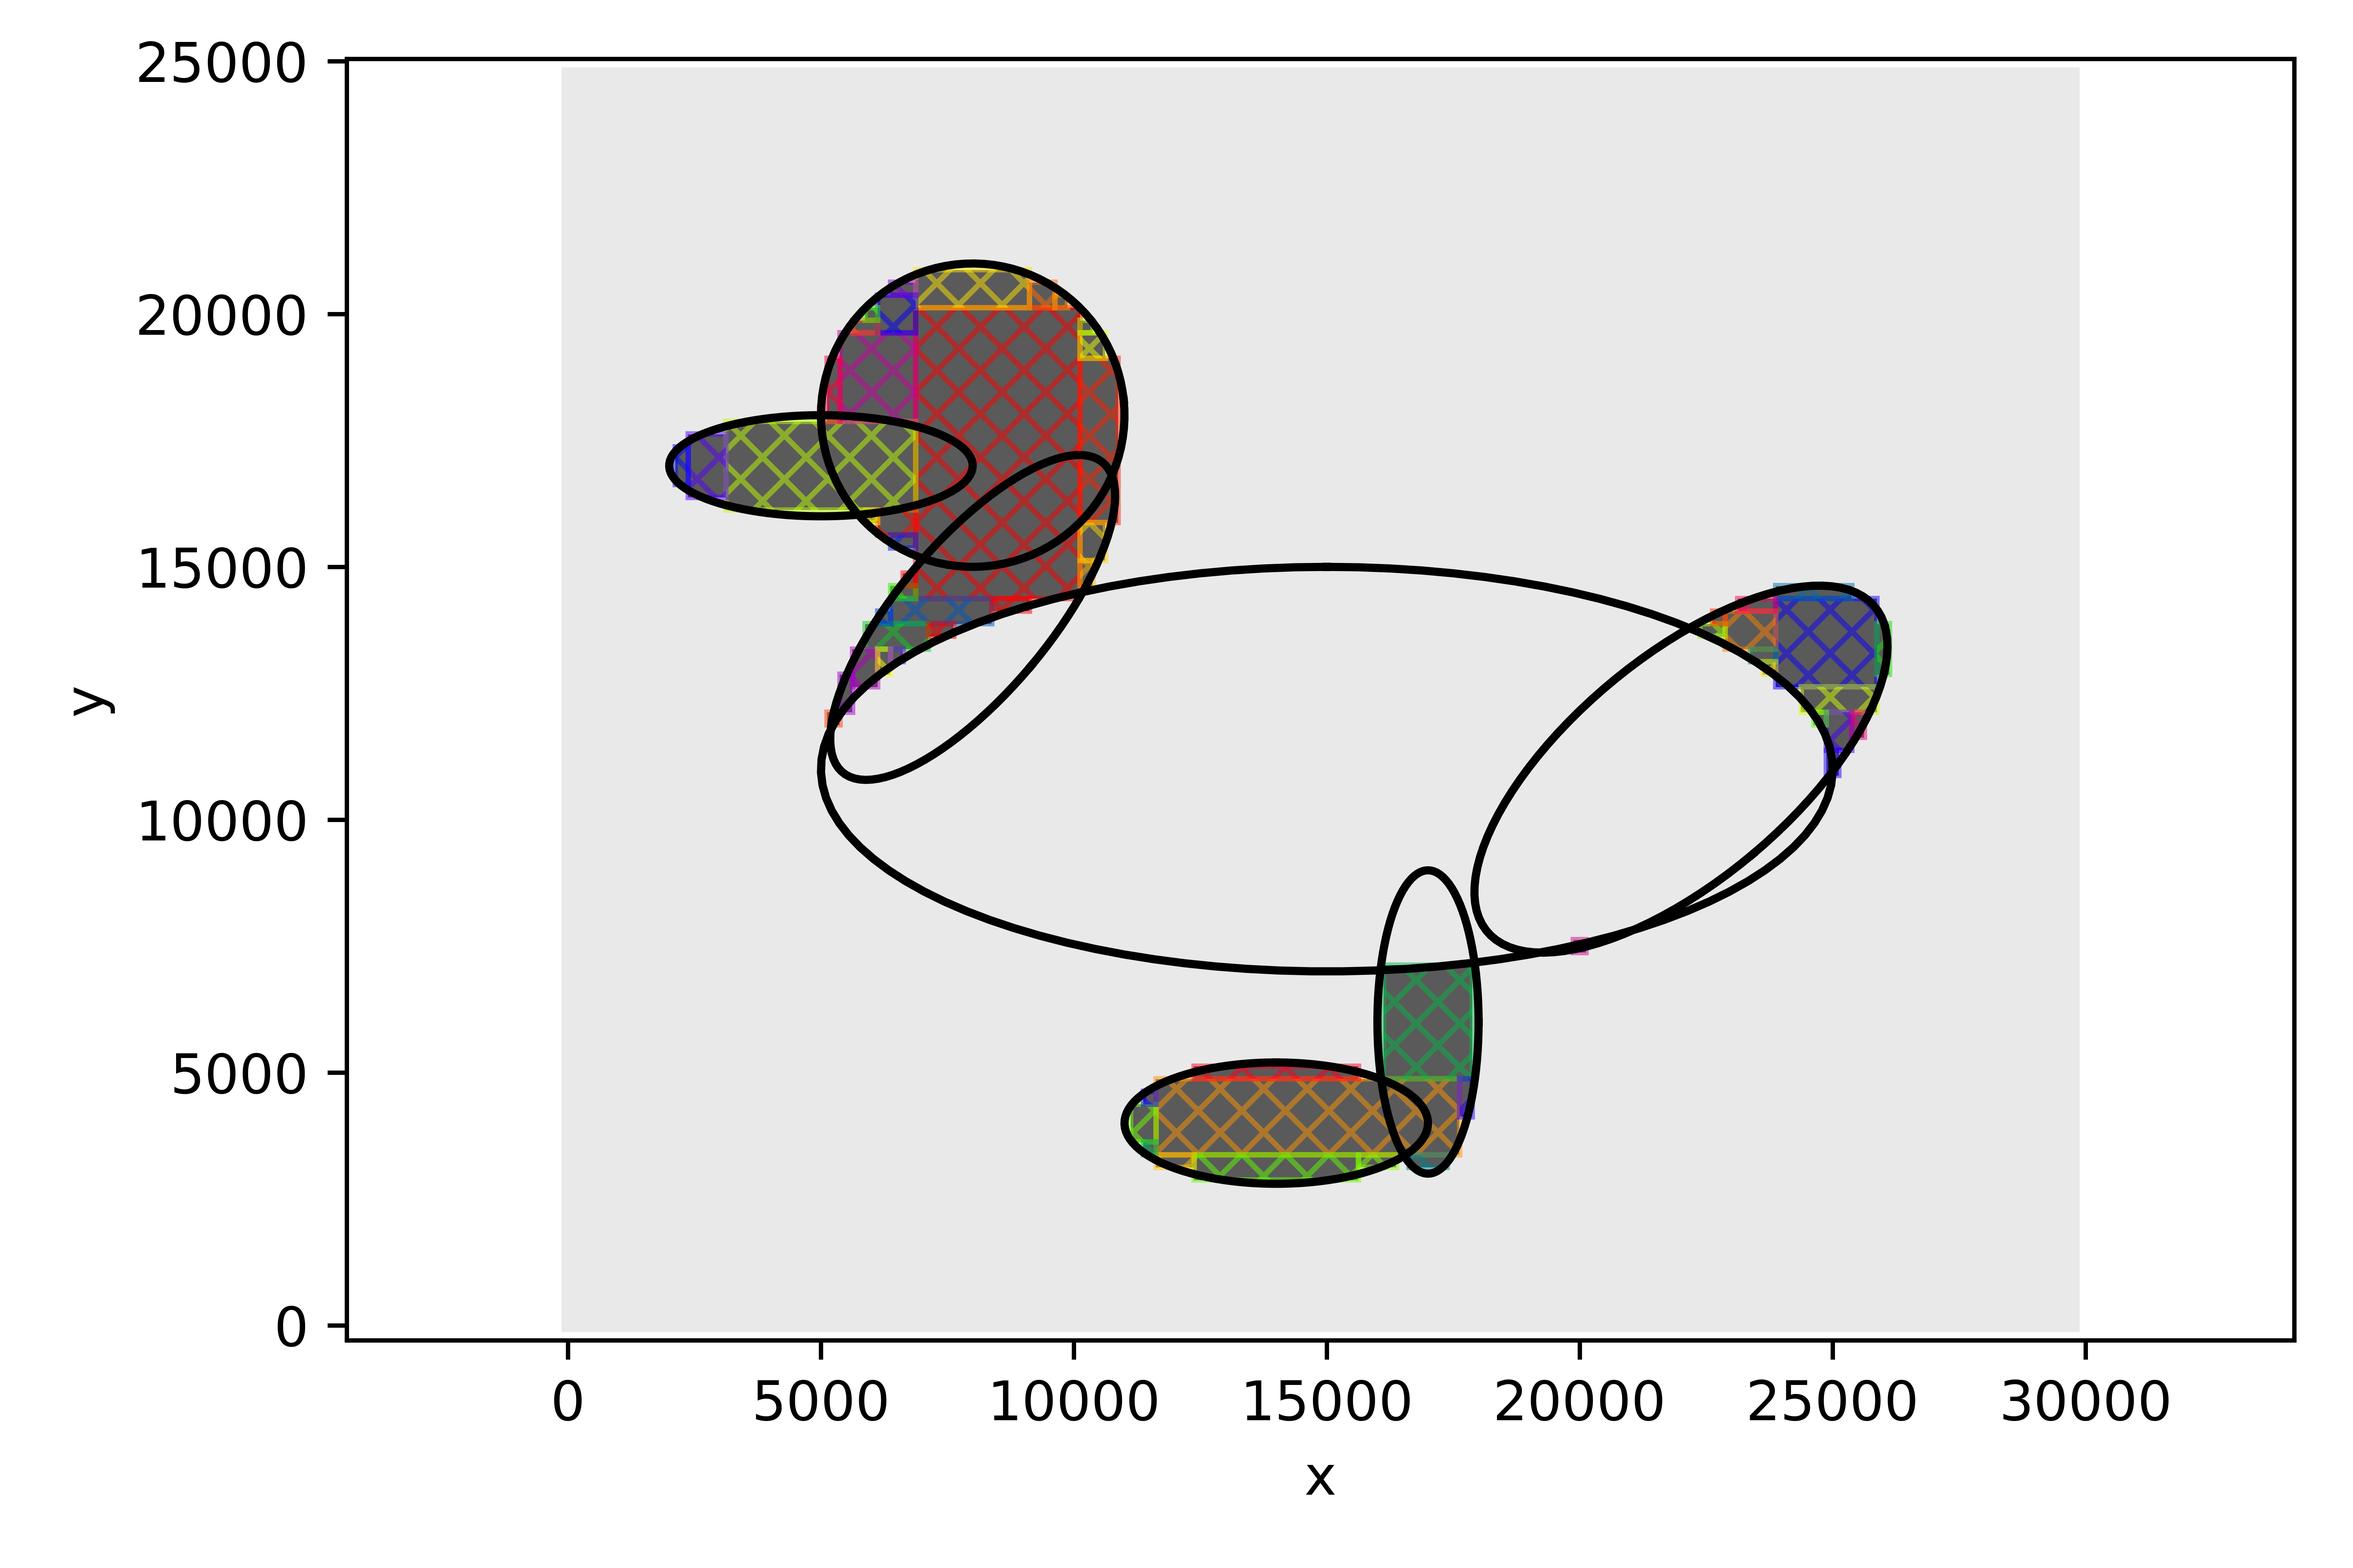
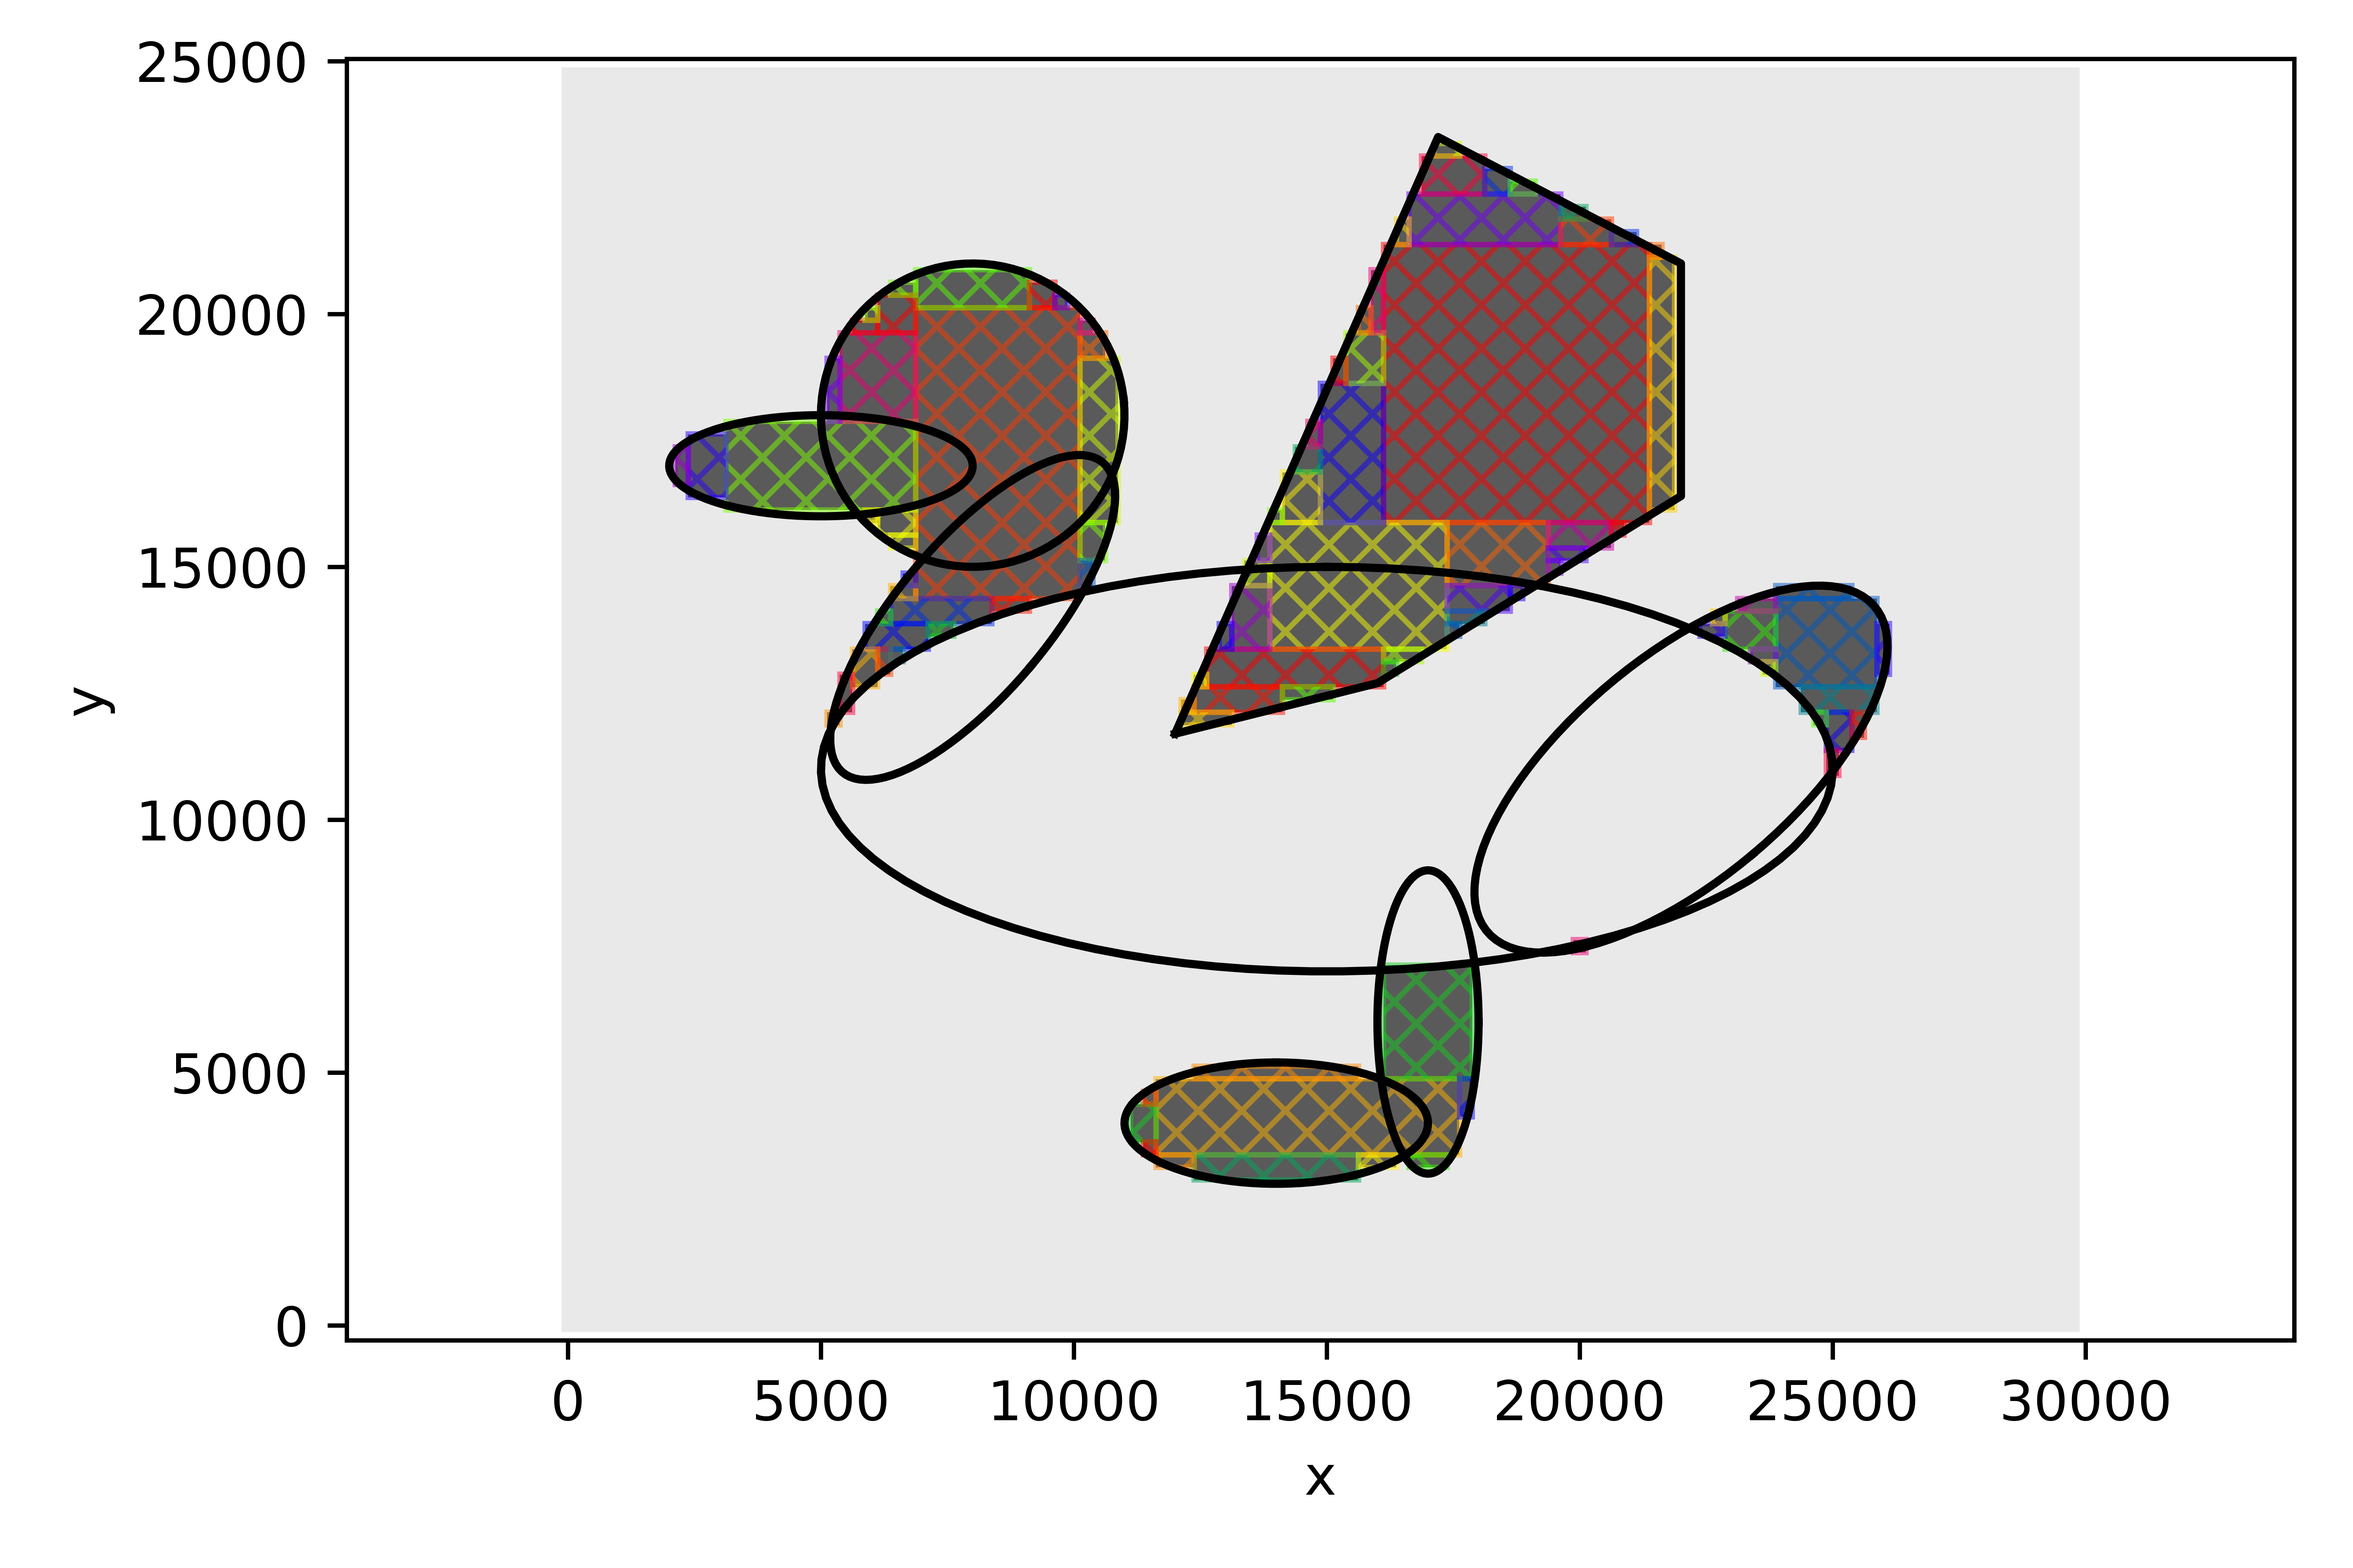
asdfasdf

diff --git a/generate_pattern.py b/generate_pattern.py
@@ -17,25 +17,16 @@ def ellipse(t, x0, y0, ra, rb, phi):
     y = y0 + ra * np.sin(phi) * np.cos(2 * np.pi * t) + rb * np.cos(phi) * np.sin(2 * np.pi * t)
     return x, y
 
+@nb.njit
+def polygon(t, *args):
+    if len(args) < 6:
+        raise Exception("At least 3 knot points are requiered")
+    if len(args)%2 ==1:
+        raise Exception("Lengt of knot points incorrect")
+    args = list(args)
+    args = args + args[:2]
+    return np.array([args[::2], args[1::2]])
 
-# @nb.njit
-def rectangle_point(t, x0, y0, x1, y1):
-    if 0 <= t and t < 0.25:
-        return x0 + (x1 - x0) * 4 * t, y0
-    elif 0.25 <= t and t < 0.5:
-        return x1, y0 + (y1 - y0) * 4 * (t - 0.25)
-    elif 0.5 <= t and t < 0.75:
-        return x1 - (x1 - x0) * 4 * (t - 0.5), y1
-    elif 0.75 <= t and t <= 1:
-        return x0, y1 - (y1 - y0)  * 4 * (t - 0.75)
-
-# @nb.njit
-def rectangle(t, x0, y0, x1, y1):
-    if type(t) == float or type(t) == np.float64:
-        # print(type(t), t)
-        return rectangle_point(t, x0, y0, x1, y1)
-    else:
-        return [rectangle_point(t_, x0, y0, x1, y1) for t_ in t]
 
 class Pattern:
     def __init__(self, x_size, y_size, step_size, pattern_name="pattern_name", increment=1, dwell_time=100):
@@ -210,7 +201,7 @@ if __name__ == "__main__":
     pattern.add_parametrized_shape(ellipse, 14e3, 4e3, 1.2e3, 3e3, 90 / 180 * np.pi)
     pattern.add_parametrized_shape(ellipse, 22e3, 11e3, 2.2e3, 5e3, -50 / 180 * np.pi)
     pattern.add_parametrized_shape(ellipse, 1.5e4, 1.1e4, 0.4e4, 1e4, 90 / 180 * np.pi, boolean_operation="subtract")
-    # pattern.add_parametrized_shape(rectangle, 1e4, 0.5e3, 1.7e4, 2e3)
+    pattern.add_parametrized_shape(polygon,1.2e4, 1.17e4, 1.6e4, 1.27e4, 2.2e4, 1.64e4, 2.2e4, 2.1e4, 1.72e4,2.35e4)
     pattern.visualize()
     print(pattern.export_pattern())
     
